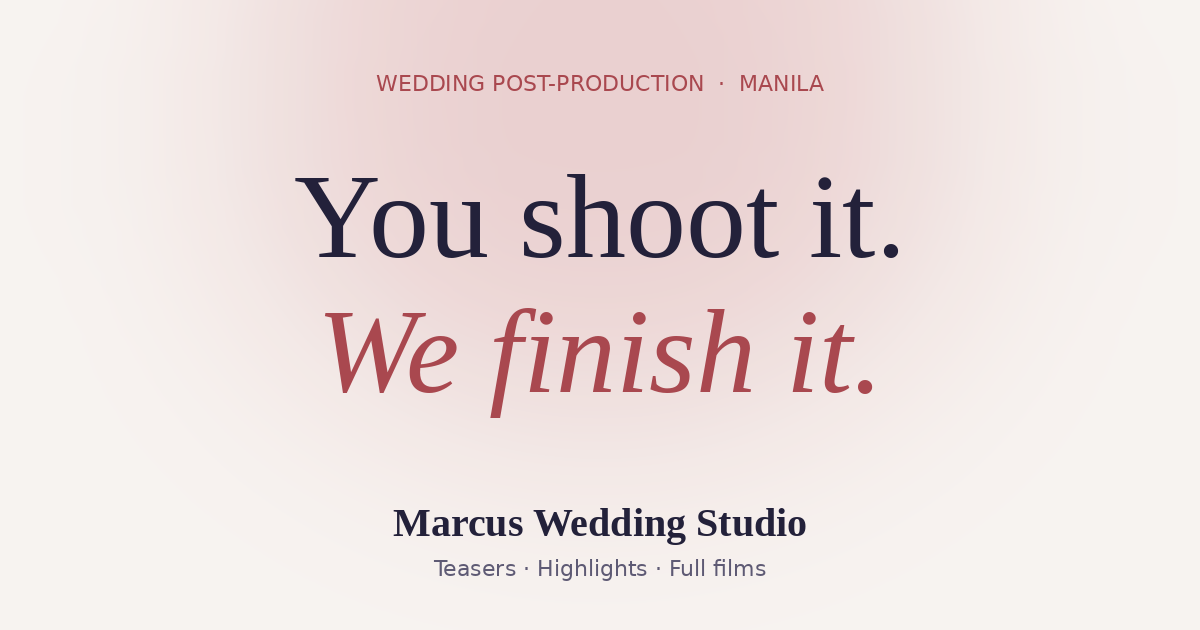
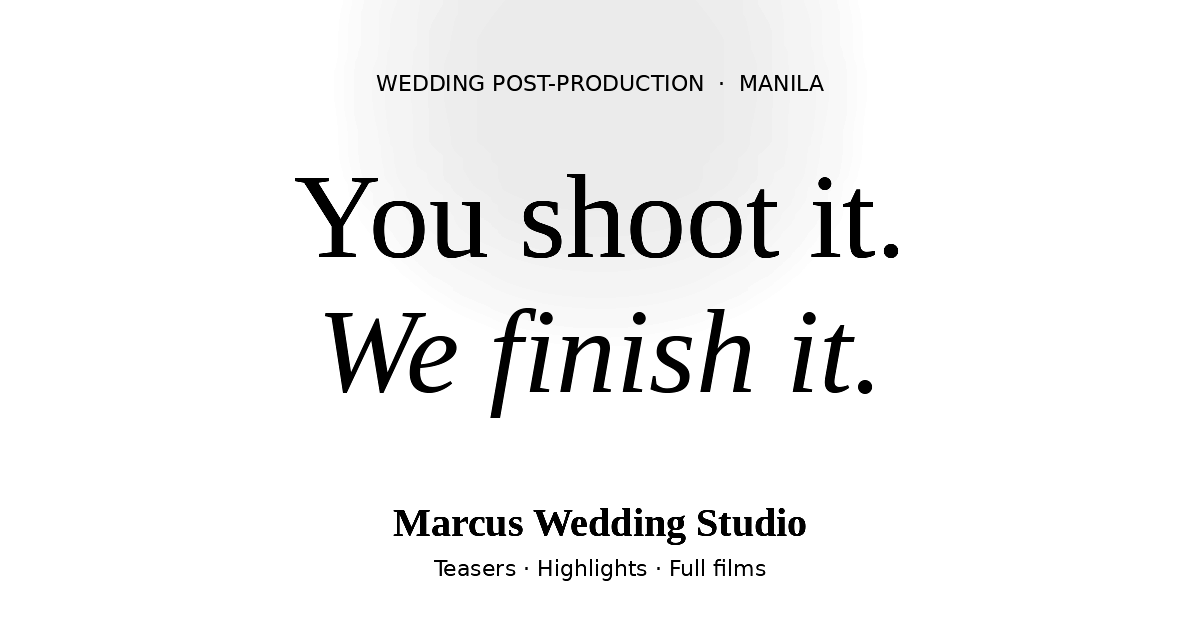
Add files via upload

diff --git a/site.css b/site.css
@@ -1,9 +1,9 @@
-:root{color-scheme:light;--bg:#F7F3F0;--ink:#23213A;--muted:#5E5A74;--card:#EDE6E3;--accent:#A9484F;--line:#D9CFCB;
+:root{color-scheme:light;--bg:#fff;--ink:#000;--muted:color-mix(in srgb,#000 62%,#fff);--card:color-mix(in srgb,#000 4%,#fff);--accent:#000;--line:color-mix(in srgb,#000 14%,#fff);
 --ease:cubic-bezier(.22,.8,.24,1);
 --sec:clamp(4rem,8vw,6.5rem);
 box-sizing:border-box}
-@media(prefers-color-scheme:dark){:root:not([data-theme="light"]){color-scheme:dark;--bg:#16141F;--ink:#F1EAE6;--muted:#A6A1B8;--card:#211E2E;--accent:#E08A8F;--line:#35314A}}
-:root[data-theme="dark"]{color-scheme:dark;--bg:#16141F;--ink:#F1EAE6;--muted:#A6A1B8;--card:#211E2E;--accent:#E08A8F;--line:#35314A}
+@media(prefers-color-scheme:dark){:root:not([data-theme="light"]){color-scheme:dark;--bg:#000;--ink:#fff;--muted:color-mix(in srgb,#fff 66%,#000);--card:color-mix(in srgb,#fff 8%,#000);--accent:#fff;--line:color-mix(in srgb,#fff 20%,#000)}}
+:root[data-theme="dark"]{color-scheme:dark;--bg:#000;--ink:#fff;--muted:color-mix(in srgb,#fff 66%,#000);--card:color-mix(in srgb,#fff 8%,#000);--accent:#fff;--line:color-mix(in srgb,#fff 20%,#000)}
 *,*::before,*::after{box-sizing:inherit}
 html{scroll-behavior:smooth;scroll-padding-top:6.5rem;-webkit-text-size-adjust:100%}
 body{margin:0;background:var(--bg);color:var(--ink);font:400 clamp(1rem,.95rem + .25vw,1.125rem)/1.7 var(--f-body);letter-spacing:.005em;-webkit-font-smoothing:antialiased;-moz-osx-font-smoothing:grayscale;text-rendering:optimizeLegibility;font-kerning:normal;font-optical-sizing:auto}
@@ -99,7 +99,7 @@ nav a[aria-current="true"]{color:var(--ink)}
 @media(hover:hover){.film:hover img{transform:scale(1.06)}}
 .film .play{position:absolute;left:50%;top:50%;width:0;height:0;margin:-20px 0 0 -14px;border-left:34px solid #fff;border-top:20px solid transparent;border-bottom:20px solid transparent;filter:drop-shadow(0 2px 10px rgba(0,0,0,.45));transition:transform .4s var(--ease)}
 @media(hover:hover){.film:hover .play{transform:scale(1.15)}}
-.film span.cap{position:absolute;inset:auto 0 0 0;padding:3rem 1.1rem 1rem;color:#fff;background:linear-gradient(transparent,rgba(20,15,30,.8));font:400 1.3rem/1.2 var(--f-display);letter-spacing:-.01em}
+.film span.cap{position:absolute;inset:auto 0 0 0;padding:3rem 1.1rem 1rem;color:#fff;background:linear-gradient(transparent,rgba(0,0,0,.8));font:400 1.3rem/1.2 var(--f-display);letter-spacing:-.01em}
 .film small{display:block;margin-top:.3rem;font:500 .8125rem/1.2 var(--f-body);letter-spacing:.02em;opacity:.9}
 .fedit{margin:0 0 2.5rem;padding:clamp(1rem,3vw,1.75rem);border:1px solid var(--line);border-radius:14px;background:var(--card);font-family:var(--f-body);display:grid;gap:1rem}
 .fe-hd{display:flex;align-items:center;flex-wrap:wrap;gap:.5rem .75rem}
@@ -272,7 +272,7 @@ dialog.doc{max-width:min(560px,94vw);overflow:auto}
 .doc-in p{margin:0;color:var(--muted);font-size:.9375rem;line-height:1.65}
 .doc-in .btn{margin-top:1.5rem;padding:.65rem 1.3rem;font-size:.9375rem}
 @keyframes pop{from{opacity:0;transform:translateY(14px) scale(.98)}}
-dialog::backdrop{background:rgba(15,12,25,.72);-webkit-backdrop-filter:blur(4px);backdrop-filter:blur(4px)}
+dialog::backdrop{background:rgba(0,0,0,.8);-webkit-backdrop-filter:blur(4px);backdrop-filter:blur(4px)}
 dialog iframe{display:block;width:100%;aspect-ratio:16/9;border:0;background:#000}
 .dtxt{padding:1.25rem 1.5rem;display:flex;gap:.75rem;align-items:center;flex-wrap:wrap}
 .dtxt h3{font-size:1.5rem;flex:1}
@@ -306,8 +306,7 @@ nav a:last-child{margin-top:1.1rem;padding:.9rem 1rem;text-align:center}
 @media(prefers-reduced-motion:reduce){html{scroll-behavior:auto}*,*::before,*::after{animation:none!important;transition:none!important}}
 
 /* v2 polish */
-:root{--brass:#B07A3A;--f-display:Newsreader,Georgia,serif;--f-body:"Hanken Grotesk",system-ui,sans-serif}
-:root[data-theme="dark"]{--brass:#D9A768}
+:root{--brass:color-mix(in srgb,var(--ink) 72%,var(--bg));--f-display:Newsreader,Georgia,serif;--f-body:"Hanken Grotesk",system-ui,sans-serif}
 .hero{display:grid;grid-template-columns:minmax(0,1.2fr) minmax(0,1fr);gap:clamp(2rem,5vw,4.5rem);align-items:center;text-align:left;padding:clamp(2rem,6vw,5rem) 0 clamp(3rem,7vw,5.5rem)}
 .hero h1{font-size:clamp(2.7rem,1.3rem + 5.2vw,5.25rem);font-weight:300;line-height:1}
 .hero .lead{margin:1.5rem 0 2rem;max-width:40ch}
@@ -338,7 +337,6 @@ dialog{max-height:92dvh;overflow:auto}
 @media(max-width:860px){.hero{grid-template-columns:minmax(0,1fr)}}
 @media(max-width:760px){.feat{grid-template-columns:1fr}}
 
-:root[data-theme="dark"] .hero{--bg:#2A2138;--ink:#F7F3F0;--muted:#CFC4CC;--accent:#EDA1A6;--card:#3D3250;--line:#4D4161}
 .hero{color:var(--ink);background:var(--bg);box-shadow:0 0 0 100vmax var(--bg);clip-path:inset(0 -100vmax)}
 .hero h1 em{color:var(--accent)}
 .hero-v{position:relative;padding-bottom:3.5rem}
@@ -350,7 +348,7 @@ dialog{max-height:92dvh;overflow:auto}
 .film .reel.on{opacity:1}
 .film.mini span.cap{font-size:.9375rem;padding:2rem .7rem .6rem}
 .about{background:var(--card);color:var(--ink)}
-:root[data-theme="dark"] .about{--bg:#2A2138;--ink:#F7F3F0;--muted:#CFC4CC;--accent:#EDA1A6;--line:#4D4161;background:var(--bg)}
+:root[data-theme="dark"] .about{--bg:#000;--ink:#fff;--muted:color-mix(in srgb,#fff 66%,#000);--card:color-mix(in srgb,#fff 8%,#000);--accent:#fff;--line:color-mix(in srgb,#fff 20%,#000);background:var(--bg)}
 .about .abt-lead{color:var(--ink)}
 .abt>p.eyebrow{margin:0 0 1rem;color:var(--accent);line-height:1.2}
 .feat h3{border-top:2px solid var(--brass);padding-top:.9rem}
@@ -400,8 +398,8 @@ html:has(dialog[open]){overflow:hidden}
 .next .cta{margin-top:1rem}
 .next .btn{padding:.65rem 1.1rem;font-size:.9375rem}
 .next ol{margin:0;padding-left:1.2rem;display:grid;gap:.3rem;color:var(--muted);font-size:.9375rem;line-height:1.6}
-.wa-fab{position:fixed;right:1.25rem;bottom:calc(1.25rem + env(safe-area-inset-bottom,0px));z-index:20;display:grid;place-items:center;width:52px;height:52px;border-radius:50%;background:#128C7E;color:#fff;box-shadow:0 10px 24px -8px rgba(0,0,0,.45);transition:transform .35s var(--ease),background .3s}
-@media(hover:hover){.wa-fab:hover{transform:translateY(-2px);background:#0B6E63}}
+.wa-fab{position:fixed;right:1.25rem;bottom:calc(1.25rem + env(safe-area-inset-bottom,0px));z-index:20;display:grid;place-items:center;width:52px;height:52px;border-radius:50%;background:var(--accent);color:var(--bg);box-shadow:0 10px 24px -8px rgba(0,0,0,.45);transition:transform .35s var(--ease),background .3s}
+@media(hover:hover){.wa-fab:hover{transform:translateY(-2px);background:var(--brass)}}
 .wa-fab svg{width:26px;height:26px;fill:none;stroke:currentColor;stroke-width:1.8;stroke-linecap:round;stroke-linejoin:round}
 html.has-wa .top{bottom:calc(5.25rem + env(safe-area-inset-bottom,0px))}
 @supports selector(::details-content){
@@ -451,14 +449,14 @@ body{padding-bottom:calc(5rem + env(safe-area-inset-bottom,0px))}
 .qs figcaption{display:flex;flex-wrap:wrap;align-items:center;gap:.4rem .5rem}
 .qs .rc{display:inline-block;margin-left:0;padding:.2rem .55rem;border:1px solid var(--line);border-radius:999px;font:500 .8125rem/1 var(--f-body);letter-spacing:0;color:var(--accent);vertical-align:middle}
 /* ===== Brief form polish ===== */
-.brief{position:relative;overflow:hidden;gap:1.35rem;border-radius:24px;padding:clamp(1.5rem,3.2vw,2.4rem);box-shadow:0 1px 0 color-mix(in srgb,#fff 40%,transparent) inset,0 30px 60px -34px rgba(35,33,58,.45),0 2px 6px rgba(35,33,58,.05)}
+.brief{position:relative;overflow:hidden;gap:1.35rem;border-radius:24px;padding:clamp(1.5rem,3.2vw,2.4rem);box-shadow:0 1px 0 color-mix(in srgb,#fff 40%,transparent) inset,0 30px 60px -34px rgba(0,0,0,.45),0 2px 6px rgba(0,0,0,.05)}
 .brief::before{content:"";position:absolute;inset:0 0 auto 0;height:3px;background:linear-gradient(90deg,var(--brass),var(--accent))}
 .brief h3{font-size:clamp(1.6rem,1.3rem + 1vw,2rem);letter-spacing:-.025em}
 .brief .sub{max-width:42ch;margin-top:.55rem}
 .brief label,.brief legend{font-size:.875rem;font-weight:600;letter-spacing:.02em;color:var(--ink)}
 .brief label{gap:.45rem}
 .brief label small,.brief label .fine{font-weight:400;letter-spacing:0}
-.brief textarea,.brief input[type=text],.brief input[type=email],.brief input[type=date],.brief input[type=url],.brief select{border-radius:14px;background:var(--bg);border-color:color-mix(in srgb,var(--line) 85%,var(--ink));box-shadow:0 1px 2px rgba(35,33,58,.04) inset;font-weight:400;color:var(--ink)}
+.brief textarea,.brief input[type=text],.brief input[type=email],.brief input[type=date],.brief input[type=url],.brief select{border-radius:14px;background:var(--bg);border-color:color-mix(in srgb,var(--line) 85%,var(--ink));box-shadow:0 1px 2px rgba(0,0,0,.04) inset;font-weight:400;color:var(--ink)}
 @media(hover:hover){.brief input[type=text]:hover,.brief input[type=email]:hover,.brief input[type=date]:hover,.brief input[type=url]:hover,.brief select:hover{border-color:color-mix(in srgb,var(--accent) 55%,var(--line))}}
 .brief textarea:focus-visible,.brief input[type=text]:focus-visible,.brief input[type=email]:focus-visible,.brief input[type=date]:focus-visible,.brief input[type=url]:focus-visible,.brief select:focus-visible{background:color-mix(in srgb,var(--accent) 3%,var(--bg))}
 .brief input:-webkit-autofill{-webkit-box-shadow:0 0 0 40px var(--bg) inset;-webkit-text-fill-color:var(--ink)}
@@ -514,7 +512,7 @@ body{padding-bottom:calc(5rem + env(safe-area-inset-bottom,0px))}
 .bsteps li{display:flex;flex-direction:column;align-items:center;gap:.5rem;min-width:0;text-align:center;line-height:1.25;transition:color .3s var(--ease)}
 .bsteps li::before{content:attr(data-n);flex:none;display:grid;place-items:center;width:2.4rem;height:2.4rem;border:2px solid color-mix(in srgb,var(--ink) 28%,var(--line));border-radius:50%;font-size:1rem;font-weight:700;color:var(--ink);background:transparent;transition:background .3s var(--ease),color .3s var(--ease),border-color .3s var(--ease),box-shadow .3s var(--ease)}
 .bsteps li.cur{color:var(--ink);font-weight:700}
-.bsteps li.cur::before{background:var(--accent);border-color:var(--accent);color:#fff;box-shadow:0 0 0 5px color-mix(in srgb,var(--accent) 22%,transparent)}
+.bsteps li.cur::before{background:var(--accent);border-color:var(--accent);color:var(--bg);box-shadow:0 0 0 5px color-mix(in srgb,var(--accent) 22%,transparent)}
 .bsteps li.done{color:var(--ink)}
 .bsteps li.done::before{content:"✓";background:color-mix(in srgb,var(--accent) 16%,transparent);border-color:var(--accent);color:var(--accent)}
 .bsteps .prog{height:6px;border-radius:6px;background:color-mix(in srgb,var(--ink) 16%,var(--line));overflow:hidden}
@@ -654,7 +652,7 @@ html.tt,html.tt *,html.tt *::before,html.tt *::after{transition:background-color
 .ps h3{letter-spacing:-.02em}
 .ps .pr{color:var(--ink)}
 .btn{transition:transform .35s var(--ease),background .35s var(--ease),color .35s var(--ease),border-color .35s var(--ease),box-shadow .35s var(--ease)}
-@media(hover:hover){.btn:not(.ghost):hover{background:var(--brass);border-color:var(--brass);color:#fff}.btn.ghost:hover{border-color:var(--brass);color:var(--ink)}}
+@media(hover:hover){.btn:not(.ghost):hover{background:var(--brass);border-color:var(--brass);color:var(--bg)}.btn.ghost:hover{border-color:var(--brass);color:var(--ink)}}
 a:focus-visible,button:focus-visible,summary:focus-visible,select:focus-visible,input:focus-visible{outline:3px solid color-mix(in srgb,var(--brass) 55%,transparent);outline-offset:3px}
 .foot a{text-underline-offset:4px}
 .pricing h1,.pricing h2{margin-bottom:1.75rem}
@@ -674,7 +672,7 @@ a:focus-visible,button:focus-visible,summary:focus-visible,select:focus-visible,
 @media(hover:hover){.brief input[type=text]:hover,.brief input[type=email]:hover,.brief input[type=date]:hover,.brief input[type=url]:hover,.brief select:hover{border-color:color-mix(in srgb,var(--brass) 65%,var(--line))}}
 .brief textarea:focus-visible,.brief input[type=text]:focus-visible,.brief input[type=email]:focus-visible,.brief input[type=date]:focus-visible,.brief input[type=url]:focus-visible,.brief select:focus-visible{background:var(--bg);border-color:var(--brass);box-shadow:0 0 0 4px color-mix(in srgb,var(--brass) 24%,transparent);outline:none}
 .brief .row .btn:not(.ghost){background:var(--ink);box-shadow:0 16px 28px -16px color-mix(in srgb,var(--ink) 85%,transparent)}
-@media(hover:hover){.brief .row .btn:not(.ghost):hover{background:var(--brass);border-color:var(--brass);color:#fff}}
+@media(hover:hover){.brief .row .btn:not(.ghost):hover{background:var(--brass);border-color:var(--brass);color:var(--bg)}}
 .agree input{accent-color:var(--brass)}
 @media(max-width:520px){.brief{border-radius:22px;padding:1.4rem 1.1rem 1.5rem}}
 /* glowing buttons: brass + rose to match the palette */
@@ -884,31 +882,31 @@ nav#nav .prefs>button:first-child{border-radius:12px 12px 0 0}
 }
 
 /* ===== Pricing: one option at a time inside a rounded box, swipe or use the arrows ===== */
-.pbox{--bg:#2A2138;--ink:#F7F3F0;--muted:#CFC4CC;--accent:#EDA1A6;--card:#3D3250;--line:#4D4161;--brass:#D9A768;
+.pbox{--bg:#000;--ink:#fff;--muted:color-mix(in srgb,#fff 66%,#000);--accent:#fff;--card:color-mix(in srgb,#fff 8%,#000);--line:color-mix(in srgb,#fff 20%,#000);--brass:color-mix(in srgb,#fff 72%,#000);border:1px solid rgba(255,255,255,.2);
  margin:0 0 clamp(1.5rem,4vw,2rem);padding:clamp(1.1rem,4vw,2rem) clamp(.9rem,3vw,1.75rem) 1.25rem;border-radius:28px;color:var(--ink);overflow:hidden;
- background:radial-gradient(120% 90% at 0% 0%,#3D3250 0%,#2A2138 55%,#1F1830 100%);box-shadow:0 28px 50px -30px rgba(31,24,48,.8)}
+ background:#000;box-shadow:0 28px 50px -30px rgba(0,0,0,.8)}
 .pbox .pcar{gap:0;margin:0;padding:0 0 1rem}
 .pbox .ps{flex:0 0 100%;box-sizing:border-box;display:flex;flex-direction:column;align-items:center;padding:0 .2rem;text-align:center;scroll-snap-align:center;scroll-snap-stop:always}
 .pbox .ps .film,.pbox .ps .psph{width:100%;max-width:36rem;border-radius:22px}
 .pbox .ps h3{margin:1.25rem 0 .5rem;font-size:clamp(1.5rem,1.3rem + 1vw,1.9rem);color:var(--ink)}
 .pbox .ps p{margin:0 auto 1rem;max-width:40ch;color:var(--muted)}
-.pbox .ps .pr{margin:auto auto 0;justify-content:center;color:var(--ink);background:rgba(255,255,255,.06);border:1.5px solid rgba(247,243,240,.55);padding:.6rem 1.35rem}
+.pbox .ps .pr{margin:auto auto 0;justify-content:center;color:var(--ink);background:rgba(255,255,255,.06);border:1.5px solid rgba(255,255,255,.55);padding:.6rem 1.35rem}
 .pbox .ps .pr small{color:var(--muted);opacity:1}
 .pbox .ps.pk .pkg{max-width:36rem;text-align:left}
-.pbox .pkg{background:rgba(255,255,255,.05);border-color:rgba(247,243,240,.16)}
+.pbox .pkg{background:rgba(255,255,255,.05);border-color:rgba(255,255,255,.16)}
 .pbox .pkg-c{background:rgba(255,255,255,.04)}
 .pbox .ctl{justify-content:space-between;gap:.75rem;margin:.5rem 0 0}
-.pbox .ctl>button{flex:1 1 0;max-width:7.5rem;width:auto;height:48px;border-radius:999px;border:1.5px solid rgba(247,243,240,.28);color:var(--ink);font-size:1.5rem}
+.pbox .ctl>button{flex:1 1 0;max-width:7.5rem;width:auto;height:48px;border-radius:999px;border:1.5px solid rgba(255,255,255,.28);color:var(--ink);font-size:1.5rem}
 @media(hover:hover){.pbox .ctl>button:hover:not(:disabled){background:rgba(255,255,255,.08);border-color:var(--brass)}}
-.pbox .dots2 button{background:rgba(247,243,240,.28)}
-.pbox .dots2 button[aria-current="true"]{background:#F7F3F0}
+.pbox .dots2 button{background:rgba(255,255,255,.28)}
+.pbox .dots2 button[aria-current="true"]{background:#fff}
 .pbox .pcar{scroll-padding:0}
 /* keep a gap between the dark price box and the notes under it (the generic .pricing>.wrap>.rv rule zeroes their margins) */
 .pricing>.wrap>.pbox{margin-bottom:clamp(1.25rem,4vw,1.75rem)}
 .pricing>.wrap>.pnotes{margin-bottom:clamp(1.5rem,4vw,2rem)}
 
 /* Live chat launcher (Tawk.to): bottom-right corner, other floating buttons stack above it */
-.tk-fab{position:fixed;right:1.25rem;bottom:calc(1.25rem + env(safe-area-inset-bottom,0px));z-index:2147483000;display:grid;place-items:center;width:52px;height:52px;padding:0;border:0;border-radius:50%;background:var(--accent);color:#fff;cursor:pointer;box-shadow:0 10px 24px -8px rgba(0,0,0,.45);animation:tkPop .5s var(--ease) both;transition:transform .3s var(--ease),background .3s}
+.tk-fab{position:fixed;right:1.25rem;bottom:calc(1.25rem + env(safe-area-inset-bottom,0px));z-index:2147483000;display:grid;place-items:center;width:52px;height:52px;padding:0;border:0;border-radius:50%;background:var(--accent);color:var(--bg);cursor:pointer;box-shadow:0 10px 24px -8px rgba(0,0,0,.45);animation:tkPop .5s var(--ease) both;transition:transform .3s var(--ease),background .3s}
 .tk-fab:focus-visible{outline:2px solid var(--ink);outline-offset:3px}
 @media(hover:hover){.tk-fab:hover{transform:translateY(-2px)}}
 .tk-fab svg{grid-area:1/1;width:24px;height:24px;fill:none;stroke:currentColor;stroke-width:1.8;stroke-linecap:round;stroke-linejoin:round;transition:transform .35s var(--ease),opacity .25s}

diff --git a/index.html b/index.html
@@ -24,7 +24,7 @@
 <meta name="twitter:description" content="You shoot it. We finish it. A wedding video editor for videographers, with a low-cost test edit.">
 <meta name="twitter:image" content="https://marcusweddingstudio.com/og-image.png">
 <script type="application/ld+json">{"@context":"https://schema.org","@type":"ProfessionalService","name":"Marcus Wedding Studio","description":"Outsourced wedding video editing for videographers and studios, edited in Manila: teasers, highlights and full-length wedding films, matched to your style and deadlines.","serviceType":"Outsourced wedding video editing","hasOfferCatalog":{"@type":"OfferCatalog","name":"Wedding video editing","itemListElement":[{"@type":"Offer","priceSpecification":{"@type":"PriceSpecification","price":"85","priceCurrency":"USD","minPrice":"85"},"itemOffered":{"@type":"Service","name":"Wedding teaser edit"}},{"@type":"Offer","priceSpecification":{"@type":"PriceSpecification","price":"200","priceCurrency":"USD","minPrice":"200"},"itemOffered":{"@type":"Service","name":"Wedding highlight film edit"}}]},"audience":{"@type":"BusinessAudience","name":"Wedding videographers and video studios"},"areaServed":"Worldwide","url":"https://marcusweddingstudio.com/","image":"https://marcusweddingstudio.com/og-image.png","logo":"https://marcusweddingstudio.com/logo-512.png","email":"marcusweddingstudio@gmail.com","sameAs":["https://instagram.com/marcusweddingstudio"],"address":{"@type":"PostalAddress","addressLocality":"Manila","addressCountry":"PH"}}</script>
-<meta name="theme-color" id="tc" content="#F7F3F0">
+<meta name="theme-color" id="tc" content="#ffffff">
 <link rel="preconnect" href="https://fonts.googleapis.com">
 <link rel="preconnect" href="https://fonts.gstatic.com" crossorigin>
 <link rel="preload" as="style" href="https://fonts.googleapis.com/css2?family=Newsreader:ital,opsz,wght@0,6..72,300..600;1,6..72,300..500&family=Hanken+Grotesk:wght@400;500;600&display=swap" onload="this.onload=null;this.rel='stylesheet'"><noscript><link rel="stylesheet" href="https://fonts.googleapis.com/css2?family=Newsreader:ital,opsz,wght@0,6..72,300..600;1,6..72,300..500&family=Hanken+Grotesk:wght@400;500;600&display=swap"></noscript>
@@ -338,7 +338,7 @@ let saved=null;try{saved=localStorage.getItem("theme")}catch(e){}
 const nv=$("nav"),row=document.createElement("button");row.type="button";row.className="theme-row";row.id="themerow";
 row.innerHTML='<svg viewBox="0 0 24 24" aria-hidden="true"><path d="M20 14.5A8.5 8.5 0 0 1 9.5 4a8.5 8.5 0 1 0 10.5 10.5z"/></svg><span>Dark mode</span><em class="st"></em>';
 if(nv){const last=nv.querySelector("a:last-child"),h=document.createElement("span");h.className="sec";h.setAttribute("aria-hidden","true");h.textContent="Preferences";const box=document.createElement("div");box.className="prefs";box.id="prefs";box.setAttribute("role","group");box.setAttribute("aria-label","Preferences");box.appendChild(row);nv.insertBefore(h,last||null);nv.insertBefore(box,last||null);row.addEventListener("click",()=>b.click())}
-const apply=t=>{r.setAttribute("data-theme",t);m.content=t=="dark"?"#16141F":"#F7F3F0";b.setAttribute("aria-label",t=="dark"?"Switch to light mode":"Switch to dark mode");row.setAttribute("aria-pressed",t=="dark");row.querySelector(".st").textContent=t=="dark"?"On":"Off"};
+const apply=t=>{r.setAttribute("data-theme",t);m.content=t=="dark"?"#000000":"#ffffff";b.setAttribute("aria-label",t=="dark"?"Switch to light mode":"Switch to dark mode");row.setAttribute("aria-pressed",t=="dark");row.querySelector(".st").textContent=t=="dark"?"On":"Off"};
 apply(r.getAttribute("data-theme")=="dark"?"dark":"light");
 b.addEventListener("click",()=>{const t=r.getAttribute("data-theme")=="dark"?"light":"dark";const done=()=>{apply(t);saved=t;try{localStorage.setItem("theme",t)}catch(e){}};if(document.startViewTransition&&!reduce){r.classList.add("vt-theme");document.startViewTransition(done).finished.finally(()=>r.classList.remove("vt-theme"))}else{r.classList.add("tt");setTimeout(()=>r.classList.remove("tt"),700);done()}});
 mq.addEventListener("change",e=>{if(!saved)apply(e.matches?"dark":"light")})})();

diff --git a/guide.css b/guide.css
@@ -1,6 +1,6 @@
-:root{color-scheme:light;--bg:#F7F3F0;--ink:#23213A;--muted:#5E5A74;--card:#EDE6E3;--accent:#A9484F;--line:#D9CFCB;--brass:#B07A3A;--f-display:Newsreader,Georgia,serif;--f-body:"Hanken Grotesk",system-ui,sans-serif;--ease:cubic-bezier(.22,.8,.24,1);box-sizing:border-box}
-@media(prefers-color-scheme:dark){:root:not([data-theme="light"]){color-scheme:dark;--bg:#16141F;--ink:#F1EAE6;--muted:#A6A1B8;--card:#211E2E;--accent:#E08A8F;--line:#35314A;--brass:#D9A768}}
-:root[data-theme="dark"]{color-scheme:dark;--bg:#16141F;--ink:#F1EAE6;--muted:#A6A1B8;--card:#211E2E;--accent:#E08A8F;--line:#35314A;--brass:#D9A768}
+:root{color-scheme:light;--bg:#fff;--ink:#000;--muted:color-mix(in srgb,#000 62%,#fff);--card:color-mix(in srgb,#000 4%,#fff);--accent:#000;--line:color-mix(in srgb,#000 14%,#fff);--brass:color-mix(in srgb,var(--ink) 72%,var(--bg));--f-display:Newsreader,Georgia,serif;--f-body:"Hanken Grotesk",system-ui,sans-serif;--ease:cubic-bezier(.22,.8,.24,1);box-sizing:border-box}
+@media(prefers-color-scheme:dark){:root:not([data-theme="light"]){color-scheme:dark;--bg:#000;--ink:#fff;--muted:color-mix(in srgb,#fff 66%,#000);--card:color-mix(in srgb,#fff 8%,#000);--accent:#fff;--line:color-mix(in srgb,#fff 20%,#000);--brass:color-mix(in srgb,var(--ink) 72%,var(--bg))}}
+:root[data-theme="dark"]{color-scheme:dark;--bg:#000;--ink:#fff;--muted:color-mix(in srgb,#fff 66%,#000);--card:color-mix(in srgb,#fff 8%,#000);--accent:#fff;--line:color-mix(in srgb,#fff 20%,#000);--brass:color-mix(in srgb,var(--ink) 72%,var(--bg))}
 *,*::before,*::after{box-sizing:inherit}
 html{-webkit-text-size-adjust:100%;scroll-behavior:smooth}
 body{margin:0;background:var(--bg);color:var(--ink);font:400 clamp(1rem,.95rem + .25vw,1.125rem)/1.75 var(--f-body);-webkit-font-smoothing:antialiased;text-rendering:optimizeLegibility}
@@ -33,7 +33,7 @@ article li::marker{color:var(--brass)}
 .cta p{margin:0 0 1.4rem;max-width:44ch;color:color-mix(in srgb,var(--bg) 80%,transparent)}
 .cta .row{display:flex;flex-wrap:wrap;gap:.7rem}
 .btn{display:inline-block;padding:.9rem 1.6rem;border-radius:999px;border:1px solid var(--bg);background:var(--bg);color:var(--ink);text-decoration:none;font:600 .9375rem/1 var(--f-body);transition:background .3s var(--ease),color .3s var(--ease),border-color .3s var(--ease)}
-.btn:hover{background:var(--brass);border-color:var(--brass);color:#fff}
+.btn:hover{background:var(--brass);border-color:var(--brass);color:var(--bg)}
 .btn.ghost{background:transparent;color:var(--bg);border-color:color-mix(in srgb,var(--bg) 45%,transparent)}
 .btn.ghost:hover{background:color-mix(in srgb,var(--bg) 14%,transparent);border-color:var(--bg);color:var(--bg)}
 .more{margin:2.5rem 0 0;padding-top:1.5rem;border-top:1px solid var(--line);font-size:.9375rem;color:var(--muted)}

diff --git a/site.js b/site.js
@@ -28,7 +28,7 @@ let saved=null;try{saved=localStorage.getItem("theme")}catch(e){}
 const nv=$("nav"),row=document.createElement("button");row.type="button";row.className="theme-row";row.id="themerow";
 row.innerHTML='<svg viewBox="0 0 24 24" aria-hidden="true"><path d="M20 14.5A8.5 8.5 0 0 1 9.5 4a8.5 8.5 0 1 0 10.5 10.5z"/></svg><span>Dark mode</span><em class="st"></em>';
 if(nv){const last=nv.querySelector("a:last-child"),h=document.createElement("span");h.className="sec";h.setAttribute("aria-hidden","true");h.textContent="Preferences";const box=document.createElement("div");box.className="prefs";box.id="prefs";box.setAttribute("role","group");box.setAttribute("aria-label","Preferences");box.appendChild(row);nv.insertBefore(h,last||null);nv.insertBefore(box,last||null);row.addEventListener("click",()=>b.click())}
-const apply=t=>{r.setAttribute("data-theme",t);m.content=t=="dark"?"#16141F":"#F7F3F0";b.setAttribute("aria-label",t=="dark"?"Switch to light mode":"Switch to dark mode");row.setAttribute("aria-pressed",t=="dark");row.querySelector(".st").textContent=t=="dark"?"On":"Off"};
+const apply=t=>{r.setAttribute("data-theme",t);m.content=t=="dark"?"#000000":"#ffffff";b.setAttribute("aria-label",t=="dark"?"Switch to light mode":"Switch to dark mode");row.setAttribute("aria-pressed",t=="dark");row.querySelector(".st").textContent=t=="dark"?"On":"Off"};
 apply(r.getAttribute("data-theme")=="dark"?"dark":"light");
 b.addEventListener("click",()=>{const t=r.getAttribute("data-theme")=="dark"?"light":"dark";const done=()=>{apply(t);saved=t;try{localStorage.setItem("theme",t)}catch(e){}};if(document.startViewTransition&&!reduce){r.classList.add("vt-theme");document.startViewTransition(done).finished.finally(()=>r.classList.remove("vt-theme"))}else{r.classList.add("tt");setTimeout(()=>r.classList.remove("tt"),700);done()}});
 mq.addEventListener("change",e=>{if(!saved)apply(e.matches?"dark":"light")})})();

diff --git a/404.html b/404.html
@@ -11,8 +11,8 @@
 <link rel="stylesheet" href="https://fonts.googleapis.com/css2?family=Newsreader:ital,opsz,wght@0,6..72,300..600;1,6..72,300..500&family=Hanken+Grotesk:wght@400;500;600&display=swap">
 <script>(function(){var t=null;try{t=localStorage.getItem("theme")}catch(e){}if(t!=="light"&&t!=="dark")t=matchMedia("(prefers-color-scheme:dark)").matches?"dark":"light";document.documentElement.setAttribute("data-theme",t)})()</script>
 <style>
-:root{color-scheme:light;--bg:#F7F3F0;--ink:#23213A;--muted:#5E5A74;--accent:#A9484F;--line:#D9CFCB;--brass:#B07A3A;--f-display:Newsreader,Georgia,serif;--f-body:"Hanken Grotesk",system-ui,sans-serif;box-sizing:border-box}
-:root[data-theme="dark"]{color-scheme:dark;--bg:#2A2138;--ink:#F7F3F0;--muted:#CFC4CC;--accent:#EDA1A6;--line:#4D4161;--brass:#D9A768}
+:root{color-scheme:light;--bg:#fff;--ink:#000;--muted:color-mix(in srgb,#000 62%,#fff);--card:color-mix(in srgb,#000 4%,#fff);--accent:#000;--line:color-mix(in srgb,#000 14%,#fff);--brass:color-mix(in srgb,var(--ink) 72%,var(--bg));--f-display:Newsreader,Georgia,serif;--f-body:"Hanken Grotesk",system-ui,sans-serif;box-sizing:border-box}
+:root[data-theme="dark"]{color-scheme:dark;--bg:#000;--ink:#fff;--muted:color-mix(in srgb,#fff 66%,#000);--card:color-mix(in srgb,#fff 8%,#000);--accent:#fff;--line:color-mix(in srgb,#fff 20%,#000);--brass:color-mix(in srgb,var(--ink) 72%,var(--bg))}
 *,*::before,*::after{box-sizing:inherit}
 html,body{height:100%}
 body{margin:0;display:grid;place-items:center;padding:max(1.5rem,env(safe-area-inset-top,0px)) max(1.25rem,env(safe-area-inset-right,0px)) max(1.5rem,env(safe-area-inset-bottom,0px)) max(1.25rem,env(safe-area-inset-left,0px));background:var(--bg);color:var(--ink);font:400 1.0625rem/1.7 var(--f-body);-webkit-font-smoothing:antialiased;text-align:center}

diff --git a/how-to-outsource-wedding-video-editing.html b/how-to-outsource-wedding-video-editing.html
@@ -16,7 +16,7 @@
 <meta property="og:image" content="https://marcusweddingstudio.com/og-image.png">
 <meta name="twitter:card" content="summary_large_image">
 <script type="application/ld+json">{"@context":"https://schema.org","@type":"Article","headline":"How to Outsource Wedding Video Editing: A Guide for Videographers","description":"When it makes sense to outsource wedding video editing, what to hand off, how to choose an editor and how to test one first.","datePublished":"2026-11-12","dateModified":"2026-11-12","mainEntityOfPage":"https://marcusweddingstudio.com/how-to-outsource-wedding-video-editing.html","author":{"@type":"Organization","name":"Marcus Wedding Studio"},"publisher":{"@type":"Organization","name":"Marcus Wedding Studio","logo":{"@type":"ImageObject","url":"https://marcusweddingstudio.com/logo-512.png"}}}</script>
-<meta name="theme-color" content="#F7F3F0">
+<meta name="theme-color" content="#ffffff">
 <link rel="preconnect" href="https://fonts.googleapis.com">
 <link rel="preconnect" href="https://fonts.gstatic.com" crossorigin>
 <link rel="stylesheet" href="https://fonts.googleapis.com/css2?family=Newsreader:ital,opsz,wght@0,6..72,300..600;1,6..72,300..500&family=Hanken+Grotesk:wght@400;500;600&display=swap">

diff --git a/how-to-prep-wedding-footage-for-an-editor.html b/how-to-prep-wedding-footage-for-an-editor.html
@@ -16,7 +16,7 @@
 <meta property="og:image" content="https://marcusweddingstudio.com/og-image.png">
 <meta name="twitter:card" content="summary_large_image">
 <script type="application/ld+json">{"@context":"https://schema.org","@type":"Article","headline":"How to Prep Wedding Footage for an Editor: A Videographer’s Guide","description":"How to organize, back up and share wedding footage so an outsourced editor can start fast.","datePublished":"2026-11-12","dateModified":"2026-11-12","mainEntityOfPage":"https://marcusweddingstudio.com/how-to-prep-wedding-footage-for-an-editor.html","author":{"@type":"Organization","name":"Marcus Wedding Studio"},"publisher":{"@type":"Organization","name":"Marcus Wedding Studio","logo":{"@type":"ImageObject","url":"https://marcusweddingstudio.com/logo-512.png"}}}</script>
-<meta name="theme-color" content="#F7F3F0">
+<meta name="theme-color" content="#ffffff">
 <link rel="preconnect" href="https://fonts.googleapis.com">
 <link rel="preconnect" href="https://fonts.gstatic.com" crossorigin>
 <link rel="stylesheet" href="https://fonts.googleapis.com/css2?family=Newsreader:ital,opsz,wght@0,6..72,300..600;1,6..72,300..500&family=Hanken+Grotesk:wght@400;500;600&display=swap">

diff --git a/portfolio.html b/portfolio.html
@@ -23,7 +23,7 @@
 <meta name="twitter:title" content="Portfolio – Wedding Video Editing – Marcus Wedding Studio">
 <meta name="twitter:description" content="A selection of wedding teasers and highlight films edited by Marcus Wedding Studio for wedding videographers. Watch our work, then send your brief.">
 <meta name="twitter:image" content="https://marcusweddingstudio.com/og-image.png">
-<meta name="theme-color" id="tc" content="#F7F3F0">
+<meta name="theme-color" id="tc" content="#ffffff">
 <link rel="preconnect" href="https://fonts.googleapis.com">
 <link rel="preconnect" href="https://fonts.gstatic.com" crossorigin>
 <link rel="preload" as="style" href="https://fonts.googleapis.com/css2?family=Newsreader:ital,opsz,wght@0,6..72,300..600;1,6..72,300..500&family=Hanken+Grotesk:wght@400;500;600&display=swap" onload="this.onload=null;this.rel='stylesheet'"><noscript><link rel="stylesheet" href="https://fonts.googleapis.com/css2?family=Newsreader:ital,opsz,wght@0,6..72,300..600;1,6..72,300..500&family=Hanken+Grotesk:wght@400;500;600&display=swap"></noscript>

diff --git a/tools.html b/tools.html
@@ -23,7 +23,7 @@
 <meta name="twitter:title" content="Tools – Software We Use to Edit Wedding Films – Marcus Wedding Studio">
 <meta name="twitter:description" content="The tools behind every wedding film we edit: Adobe Premiere Pro, Adobe Podcast, Musicbed, Frame.io, Dropbox and Trello.">
 <meta name="twitter:image" content="https://marcusweddingstudio.com/og-image.png">
-<meta name="theme-color" id="tc" content="#F7F3F0">
+<meta name="theme-color" id="tc" content="#ffffff">
 <link rel="preconnect" href="https://fonts.googleapis.com">
 <link rel="preconnect" href="https://fonts.gstatic.com" crossorigin>
 <link rel="preload" as="style" href="https://fonts.googleapis.com/css2?family=Newsreader:ital,opsz,wght@0,6..72,300..600;1,6..72,300..500&family=Hanken+Grotesk:wght@400;500;600&display=swap" onload="this.onload=null;this.rel='stylesheet'"><noscript><link rel="stylesheet" href="https://fonts.googleapis.com/css2?family=Newsreader:ital,opsz,wght@0,6..72,300..600;1,6..72,300..500&family=Hanken+Grotesk:wght@400;500;600&display=swap"></noscript>

diff --git a/pricing.html b/pricing.html
@@ -23,7 +23,7 @@
 <meta name="twitter:title" content="Pricing – Wedding Video Editing – Marcus Wedding Studio">
 <meta name="twitter:description" content="How pricing works for wedding video editing at Marcus Wedding Studio. Send your brief and we reply with your exact price.">
 <meta name="twitter:image" content="https://marcusweddingstudio.com/og-image.png">
-<meta name="theme-color" id="tc" content="#F7F3F0">
+<meta name="theme-color" id="tc" content="#ffffff">
 <link rel="preconnect" href="https://fonts.googleapis.com">
 <link rel="preconnect" href="https://fonts.gstatic.com" crossorigin>
 <link rel="preload" as="style" href="https://fonts.googleapis.com/css2?family=Newsreader:ital,opsz,wght@0,6..72,300..600;1,6..72,300..500&family=Hanken+Grotesk:wght@400;500;600&display=swap" onload="this.onload=null;this.rel='stylesheet'"><noscript><link rel="stylesheet" href="https://fonts.googleapis.com/css2?family=Newsreader:ital,opsz,wght@0,6..72,300..600;1,6..72,300..500&family=Hanken+Grotesk:wght@400;500;600&display=swap"></noscript>

diff --git a/contact.html b/contact.html
@@ -23,7 +23,7 @@
 <meta name="twitter:title" content="Start Your Brief – Marcus Wedding Studio">
 <meta name="twitter:description" content="Send your wedding footage details and deadline. Marcus Wedding Studio replies within a day with timing and next steps.">
 <meta name="twitter:image" content="https://marcusweddingstudio.com/og-image.png">
-<meta name="theme-color" id="tc" content="#F7F3F0">
+<meta name="theme-color" id="tc" content="#ffffff">
 <link rel="preconnect" href="https://fonts.googleapis.com">
 <link rel="preconnect" href="https://fonts.gstatic.com" crossorigin>
 <link rel="preload" as="style" href="https://fonts.googleapis.com/css2?family=Newsreader:ital,opsz,wght@0,6..72,300..600;1,6..72,300..500&family=Hanken+Grotesk:wght@400;500;600&display=swap" onload="this.onload=null;this.rel='stylesheet'"><noscript><link rel="stylesheet" href="https://fonts.googleapis.com/css2?family=Newsreader:ital,opsz,wght@0,6..72,300..600;1,6..72,300..500&family=Hanken+Grotesk:wght@400;500;600&display=swap"></noscript>

diff --git a/project-details.html b/project-details.html
@@ -22,7 +22,7 @@
 <meta name="twitter:title" content="Project Details – Marcus Wedding Studio">
 <meta name="twitter:description" content="Share the couple, footage and style details for your wedding edit with Marcus Wedding Studio.">
 <meta name="twitter:image" content="https://marcusweddingstudio.com/og-image.png">
-<meta name="theme-color" id="tc" content="#F7F3F0">
+<meta name="theme-color" id="tc" content="#ffffff">
 <link rel="preconnect" href="https://fonts.googleapis.com">
 <link rel="preconnect" href="https://fonts.gstatic.com" crossorigin>
 <link rel="preload" as="style" href="https://fonts.googleapis.com/css2?family=Newsreader:ital,opsz,wght@0,6..72,300..600;1,6..72,300..500&family=Hanken+Grotesk:wght@400;500;600&display=swap" onload="this.onload=null;this.rel='stylesheet'"><noscript><link rel="stylesheet" href="https://fonts.googleapis.com/css2?family=Newsreader:ital,opsz,wght@0,6..72,300..600;1,6..72,300..500&family=Hanken+Grotesk:wght@400;500;600&display=swap"></noscript>
